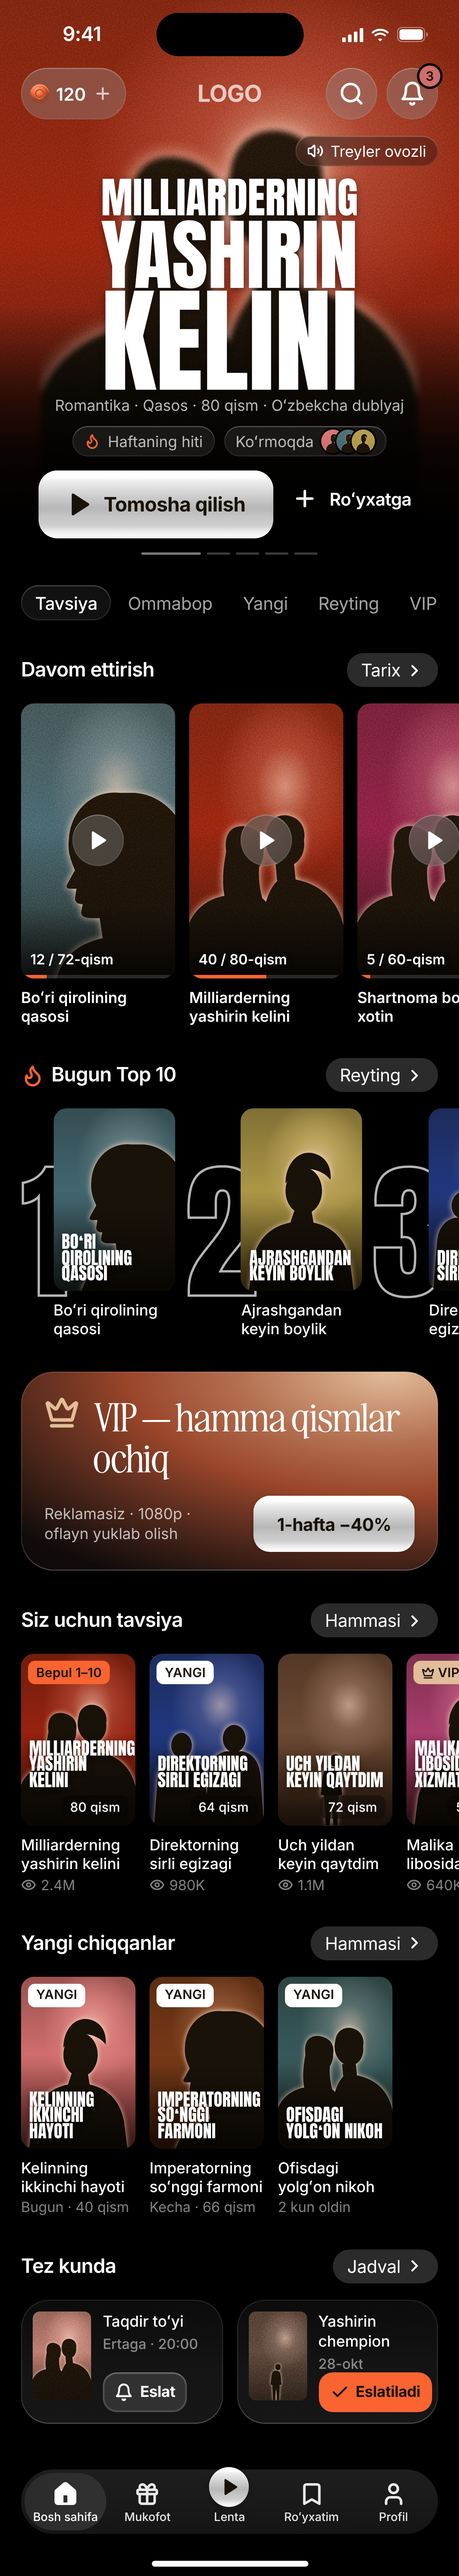
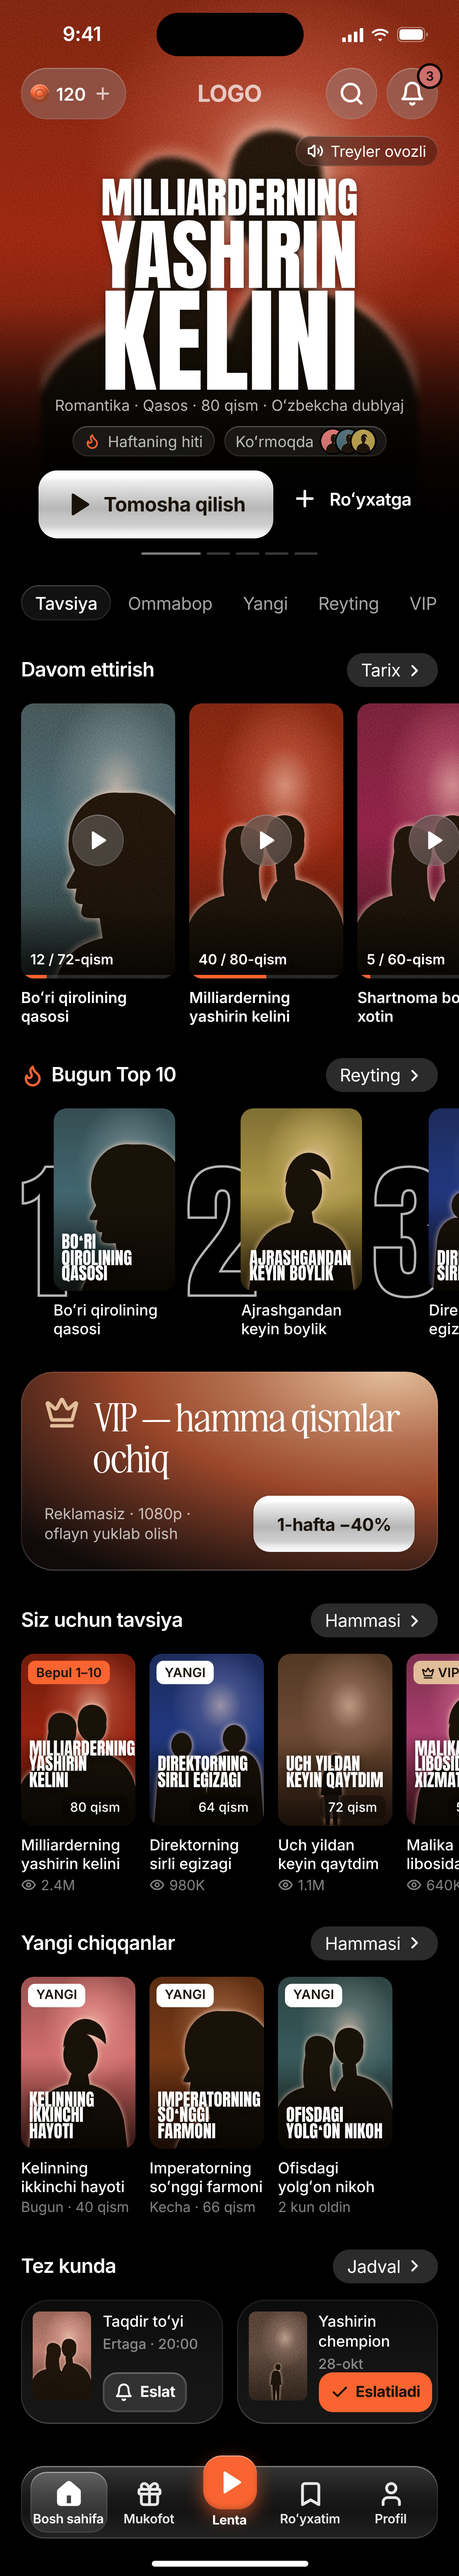
Bottom nav: thicker liquid-glass bar, radius 20, flame Lenta button
- nav 62 pt, radius 20 (active item 14), translucent fill with sheen,
  bright edges, blur + saturate, deep shadow; icons 24, labels 600 11 pt
- Lenta: flame 46 pt button (radius 16, glow) instead of the white
  circle; label stays white 700 (flame text measured 3.6:1 over the glow)
- 05 CTA lifted 6 pt to keep a 10 pt gap above the taller nav
- audit compares the nav with the backdrop hidden (glass shows content);
  all checks clean; shots, montages, DEVIATIONS U6

Claude-Session: https://claude.ai/code/session_01AYQSqmCKxR9wk5HyhigZPN

diff --git a/design/components.css b/design/components.css
@@ -123,14 +123,15 @@ button { font: inherit; color: inherit; background: none; border: 0; cursor: poi
 .utabs__item.is-active::after { content: ''; position: absolute; left: 0; right: 0; bottom: 0; height: 2px; border-radius: var(--r-pill); background: var(--flame); }
 
 /* ---------- Floating bottom nav (ref-01) ---------- */
-.nav { position: absolute; z-index: 80; left: var(--nav-x); right: var(--nav-x); bottom: var(--nav-bottom); height: var(--nav-h); border-radius: var(--r-pill); background: var(--nav-fill); display: grid; grid-template-columns: repeat(5, 1fr); align-items: center; padding: 0 3px; }
-.nav__item { position: relative; display: flex; flex-direction: column; align-items: center; justify-content: center; gap: 3px; height: var(--nav-active-h); border-radius: var(--r-pill); color: var(--text-nav-off); }
-.nav__item .ic { width: 22px; height: 22px; }
-.nav__item span { font: 500 var(--t-micro)/1 var(--f-ui); }
-.nav__item.is-active { background: var(--nav-active); color: var(--text-1); width: var(--nav-active-w); justify-self: center; }
-.nav__center { width: 34px; height: 34px; border-radius: 50%; display: grid; place-items: center; background: var(--glossy-fill); color: var(--cocoa); box-shadow: var(--glossy-hi), var(--shadow-pill); margin-top: -12px; }
-.nav__center .ic { width: 16px; height: 16px; margin-left: 2px; }
-.nav__item.is-active .nav__center { box-shadow: var(--glossy-hi), var(--glow-flame); }
+/* Foydalanuvchi: qalinroq, burchaklari tugmalar kabi (20), liquid glass; Lenta — flame rangda ajralib turadi */
+.nav { position: absolute; z-index: 80; left: var(--nav-x); right: var(--nav-x); bottom: var(--nav-bottom); height: var(--nav-h); border-radius: var(--r-nav); background: var(--lg-fill); box-shadow: var(--lg-edge); -webkit-backdrop-filter: var(--lg-filter); backdrop-filter: var(--lg-filter); display: grid; grid-template-columns: repeat(5, 1fr); align-items: center; padding: 0 var(--s-6); }
+.nav__item { position: relative; display: flex; flex-direction: column; align-items: center; justify-content: center; gap: var(--s-4); height: var(--nav-active-h); border-radius: var(--r-nav-item); color: var(--text-nav-off); }
+.nav__item .ic { width: 24px; height: 24px; }
+.nav__item span { font: 600 var(--t-tag)/1 var(--f-ui); letter-spacing: -.01em; }
+.nav__item.is-active { background: var(--lg-active); box-shadow: var(--lg-active-edge); color: var(--text-1); width: var(--nav-active-w); justify-self: center; }
+.nav__center { width: 46px; height: 46px; border-radius: var(--r-btn); display: grid; place-items: center; background: var(--flame); color: var(--text-1); box-shadow: var(--flame-hi), var(--glow-flame); margin-top: -20px; }
+.nav__center .ic { width: 22px; height: 22px; margin-left: 2px; }
+.nav__center + span { color: var(--text-1); font-weight: 700; }
 
 /* ---------- Media placeholder (drama rasmi) ---------- */
 .art { position: relative; overflow: hidden; background-color: var(--amb, var(--amb-01));

diff --git a/design/tokens.css b/design/tokens.css
@@ -80,7 +80,14 @@
   --glass-line: rgba(255, 255, 255, .18);       /* ref-04 qidiruv chegarasi 18–20%, ref-01 chip yuqori 17% */
   --glass-line-soft: rgba(255, 255, 255, .08);  /* ref-01 chip yon chegarasi */
   --glass-rim: linear-gradient(180deg, rgba(255, 255, 255, .18), rgba(255, 255, 255, .08)); /* yuqoridan yoritilgan chet */
-  --glass-filter: blur(24px);                   /* blur o'lchab bo'lmaydi; saturate yo'q (o'lchov: to'yinganlik kamayadi) */
+  --glass-filter: blur(24px);
+  /* Liquid glass (foydalanuvchi so'rovi, iOS 26 uslubi): shaffof qatlam + yuqoridan yoritilgan sheen, yorqin qirralar, chuqur soya */
+  --lg-fill: linear-gradient(180deg, rgba(255, 255, 255, .17) 0%, rgba(255, 255, 255, .06) 40%, rgba(255, 255, 255, .03) 62%, rgba(255, 255, 255, .09) 100%), rgba(20, 20, 20, .62);
+  --lg-edge: inset 0 1px 0 rgba(255, 255, 255, .34), inset 0 -1px 0 rgba(255, 255, 255, .10), inset 0 0 0 1px rgba(255, 255, 255, .08), 0 12px 30px rgba(0, 0, 0, .50), 0 2px 6px rgba(0, 0, 0, .30);
+  --lg-filter: blur(22px) saturate(180%);
+  --lg-active: linear-gradient(180deg, rgba(255, 255, 255, .24) 0%, rgba(255, 255, 255, .09) 100%);
+  --lg-active-edge: inset 0 1px 0 rgba(255, 255, 255, .38), inset 0 0 0 1px rgba(255, 255, 255, .08);
+  --flame-hi: inset 0 1px 0 rgba(255, 255, 255, .40), inset 0 -2px 4px rgba(154, 70, 42, .45);   /* flame tugma: yuqori aks + pastki chuqurlik */                   /* blur o'lchab bo'lmaydi; saturate yo'q (o'lchov: to'yinganlik kamayadi) */
 
   /* ---------- Glossy pill (ref-01 "Following", 12 nuqta) ---------- */
   --glossy-fill: linear-gradient(180deg, #FFFFFF 0%, #FDFDFD 10%, #ECECEC 16%, #E1E1E1 24%, #D6D6D6 32%, #CBCBCB 40%, #BEBEBE 50%, #B7B7B7 56%, #C5C5C5 68%, #CCCCCC 79%, #D7D7D7 84%, #E3E3E3 87%, #F1F1F1 92%, #F7F7F7 96%);
@@ -159,11 +166,13 @@
   --d-play: 56px;        /* ref-07 play 56 */
   --d-side: 48px;        /* ref-01 profil orqaga doira 48 */
   --hit: 44px;           /* Apple HIG: minimal bosish maydoni (vizual kichik boshqaruvlarga ko'rinmas kengaytma) */
-  --nav-h: 55px;         /* ref-01 nav */
+  --nav-h: 62px;         /* foydalanuvchi: navbar qalinroq (ref-01: 55) */
   --nav-x: 18px;         /* ref-01 */
-  --nav-bottom: 36px;    /* ref-01: ekran pastidan; home indicator'dan 22 */
-  --nav-active-w: 70px;  /* ref-01 */
-  --nav-active-h: 49px;  /* ref-01 */
+  --nav-bottom: 32px;    /* ekran pastidan; home indicator'dan 19 (ref-01: 36) */
+  --nav-active-w: 66px;  /* aktiv element (ref-01: 70×49) */
+  --nav-active-h: 52px;
+  --r-nav: 20px;         /* foydalanuvchi: nav burchagi kamroq yumaloq, tugmalar kabi (pill edi) */
+  --r-nav-item: 14px;
   --nav-center: 42px;    /* ref-01 "+" doira */
   --slider-h: 18px;      /* ref-01 trek */
   --knob: 36px;          /* ref-01 knob */

diff --git a/design/tools/audit.js b/design/tools/audit.js
@@ -17,7 +17,14 @@ const INTERACTIVE = 'button, a, .btn, .gbtn, .chip, .seg__item, .utabs__item, .n
     await page.evaluate(() => document.fonts.ready);
     await page.waitForTimeout(400);
     // nav: 393×852 viewport'da (uzun ekranlarda ramka rejimi — nav fixed) bir xil joyda suratga olinadi
-    if (await page.$('.nav')) await page.screenshot({ path: path.join(outDir, name + '.nav.png'), clip: { x: 18, y: 852 - 36 - 55, width: 357, height: 55 } });
+    // nav liquid glass — orqadagi kontentga bog'liq; o'zini solishtirish uchun orqa fon yashiriladi
+    if (await page.$('.nav')) {
+      const hide = await page.addStyleTag({ content: '#screen > :not(.nav) { visibility: hidden !important; }' });
+      const nb = await page.evaluate(() => { const r = document.querySelector('.nav').getBoundingClientRect(); return { x: r.left, y: r.top, width: r.width, height: r.height }; });
+      await page.waitForTimeout(80);
+      await page.screenshot({ path: path.join(outDir, name + '.nav.png'), clip: nb });
+      await hide.evaluate(el => el.remove());
+    }
     const h = await page.evaluate(() => document.getElementById('screen').getBoundingClientRect().height);
     await page.setViewportSize({ width: 393, height: Math.ceil(h) });
     await page.waitForTimeout(150);

diff --git a/design/screens/05-lenta.html b/design/screens/05-lenta.html
@@ -16,12 +16,12 @@
   .toast { position: absolute; z-index: 5; left: 72px; right: 72px; top: 214px; padding: var(--s-16); text-align: center; border-radius: var(--r-card); }
   .toast .ic { color: var(--text-1); }
   .rail { position: absolute; z-index: 5; right: calc(var(--page-x) + var(--s-4)); top: 290px; display: flex; flex-direction: column; gap: 26px; }
-  .info { position: absolute; z-index: 5; left: var(--page-x); right: 84px; top: 506px; }
+  .info { position: absolute; z-index: 5; left: var(--page-x); right: 84px; top: 500px; }
   .info .chip { height: var(--h-chip); }
   .info h1 { margin-top: var(--s-12); }
   .info p { margin-top: var(--s-8); color: var(--text-2); }
-  .vprog { position: absolute; z-index: 5; left: var(--page-x); right: var(--page-x); top: 674px; height: 2px; }
-  .cta { position: absolute; z-index: 5; left: var(--page-x); right: var(--page-x); top: 690px; }
+  .vprog { position: absolute; z-index: 5; left: var(--page-x); right: var(--page-x); top: 668px; height: 2px; }
+  .cta { position: absolute; z-index: 5; left: var(--page-x); right: var(--page-x); top: 684px; }
 </style>
 </head>
 <body>

diff --git a/design/tools/audit.py b/design/tools/audit.py
@@ -44,7 +44,7 @@ def ratio(a, b):
     return (np.maximum(la, lb) + 0.05) / (np.minimum(la, lb) + 0.05)
 
 SCALE = {128, 96, 72, 53, 44, 40, 36, 32, 30, 28, 26, 24, 20, 17, 15, 13, 12, 11, 10}
-RADII = {55, 40, 28, 24, 17, 16, 14, 12, 11, 6, 999, 10.2, 34.5, 20.7}   # + token hosilalari; 16/14/12 — tugmalar (--r-btn*)
+RADII = {55, 40, 28, 24, 20, 17, 16, 14, 12, 11, 6, 999, 10.2, 34.5, 20.7}   # + token hosilalari; 16/14/12 — tugmalar (--r-btn*)
 
 # ---------------------------------------------------------------- 2. tizim qatlamlari va nav
 w('# 5-bosqich: avtomatik tekshiruv hisoboti\n')
@@ -83,7 +83,7 @@ if NAVS:
             m = inside.copy()
             for act in (ai, bi): m[:, max(0, round(act * W5) - 6):round((act + 1) * W5) + 6] = False   # aktiv slot va uning nuri
             worst = max(worst, int(np.abs(a_ - b2).max(2)[m].max()))
-    w(f'- Piksel (pill ichi, aktiv slotlar ±6 pt chiqarilgan), juftlar orasida max farq = **{worst}** / 255' + (' (aynan bir xil)' if worst == 0 else '') + '\n')
+    w(f'- Piksel (orqa kontent yashirilgan — liquid glass; burchaklar va aktiv slotlar ±6 pt chiqarilgan), juftlar orasida max farq = **{worst}** / 255' + (' (aynan bir xil)' if worst == 0 else '') + '\n')
 
 
 # ---------------------------------------------------------------- 3. touch

diff --git a/design/analysis/DEVIATIONS.md b/design/analysis/DEVIATIONS.md
@@ -9,6 +9,7 @@ Har bir farq: nima → nimaga · sababi · manba. "O'lchov" — 1-bosqichda refe
 | U2 | Ikonkalar: o'z chizgan to'plam (stroke 1.75) → **Lucide 0.460.0, stroke 2.4** (ISC, `tools/icons-src/`); `cc`, `hd` — shu to'r va konturda | Foydalanuvchi: ikonkalar qalinroq va sifatliroq. PROMPT'dagi «stroke 1.75–2» o'rniga |
 | U3 | Tugmalar: pill (999) → **radius 16 / 14 / 12**, balandlik 52 / 43 / 29 → **58 / 48 / 34**, matn 600 15 → **700 17 / 15 / 13**, ikonka 20 → 22; glass tugma foni oq 8 % → **12 %**, chegara 1 → **1.5 px**; 02-ekranda tugmalar orasi 12 → **8** | Foydalanuvchi: «katta-katta, qalin, bir-biriga yaqin, burchaklari kamroq yumaloq». ref-01 glossy gradient saqlandi, faqat shakli o'zgardi |
 | U5 | Bosiladigan chip'lar (til, filtr, sifat/ovoz/subtitr, qism oralig'i, saralash, pleer pastki tugmalari, oxirgi qidiruvlar, to'lov usullari, bildirishnoma va yordam mavzulari) → **tanlov tugmasi** `.choice`: 44 / 36 pt, radius 12, 600–700, tanlangani glossy oq, qolganlari glass tugma | Foydalanuvchi: «shu tugmalar pastdagi (asosiy) tugmaga o'xshasin». Ma'lumot beruvchi teglar (Haftaning hiti, janr teglari, VIP emas) chip bo'lib qoldi |
+| U6 | Pastki nav: ref-01 to'q pill (55, `#1E1E1E→#151515`) → **liquid glass** (shaffof + blur 22 + saturate 180 %, yuqori sheen, yorqin qirralar, chuqur soya), balandlik **62**, radius **20** (aktiv element 14), ikonka 24, yozuv 600 11 pt; **Lenta** — oq glossy doira o'rniga **flame** tugma (46, radius 16, glow), yozuvi oq 700 | Foydalanuvchi: «qalinroq, burchagi tugmalar kabi, liquid glass, Lenta boshqa rangda ajralib tursin». Flame matn rangi nur ustida 3.6:1 bo'lgani uchun yozuv oq qoldirildi |
 | U4 | «Davom ettirish» kartalari: landscape 16:9 (ref-02) → **Reels formatida vertikal 9:16** (132 × 235, qism raqami kadr ichida, pastida himoya gradienti) | Foydalanuvchi so'rovi (YouTube formati o'rniga Reels) |
 
 ## Tizim darajasida

diff --git a/design/analysis/CHECKLIST.md b/design/analysis/CHECKLIST.md
@@ -8,9 +8,9 @@
 
 ## 2. Nav (04, 05, 22, 24, 27)
 - Nav bor ekranlar: 04, 05, 22, 24, 27
-- Joylashuv (x, pastdan, w, h): bir xil (18, 36, 357, 55)
+- Joylashuv (x, pastdan, w, h): bir xil (18, 32, 357, 62)
 - Markup (is-active va to'ldirilgan ikonka hisobga olinmasa): bir xil
-- Piksel (pill ichi, aktiv slotlar ±6 pt chiqarilgan), juftlar orasida max farq = **9** / 255
+- Piksel (orqa kontent yashirilgan — liquid glass; burchaklar va aktiv slotlar ±6 pt chiqarilgan), juftlar orasida max farq = **0** / 255 (aynan bir xil)
 
 ## 3. Touch target ≥ 44 pt
 - Interaktiv elementlar: 390; 44 dan kichik (qator/karta ichida boʻlmagan): **0**
@@ -27,7 +27,7 @@ Fon — matnsiz render (`*{color:transparent}`) piksellari; matn rangi alfa va o
 - Shrift oilalari: Anton, Awesome Serif (+ Playfair Display: ʻ ʼ « » +), IBM Plex Mono, Inter, Inter Tight
 
 ## 6. Radiuslar
-- Token radiuslari: [6, 10.2, 11, 12, 14, 16, 17, 20.7, 24, 28, 34.5, 40, 55, 999] (+ 50 % / pill)
+- Token radiuslari: [6, 10.2, 11, 12, 14, 16, 17, 20, 20.7, 24, 28, 34.5, 40, 55, 999] (+ 50 % / pill)
 - Tokendan tashqari: yoʻq
 
 ## 7. Chekka 18 pt
